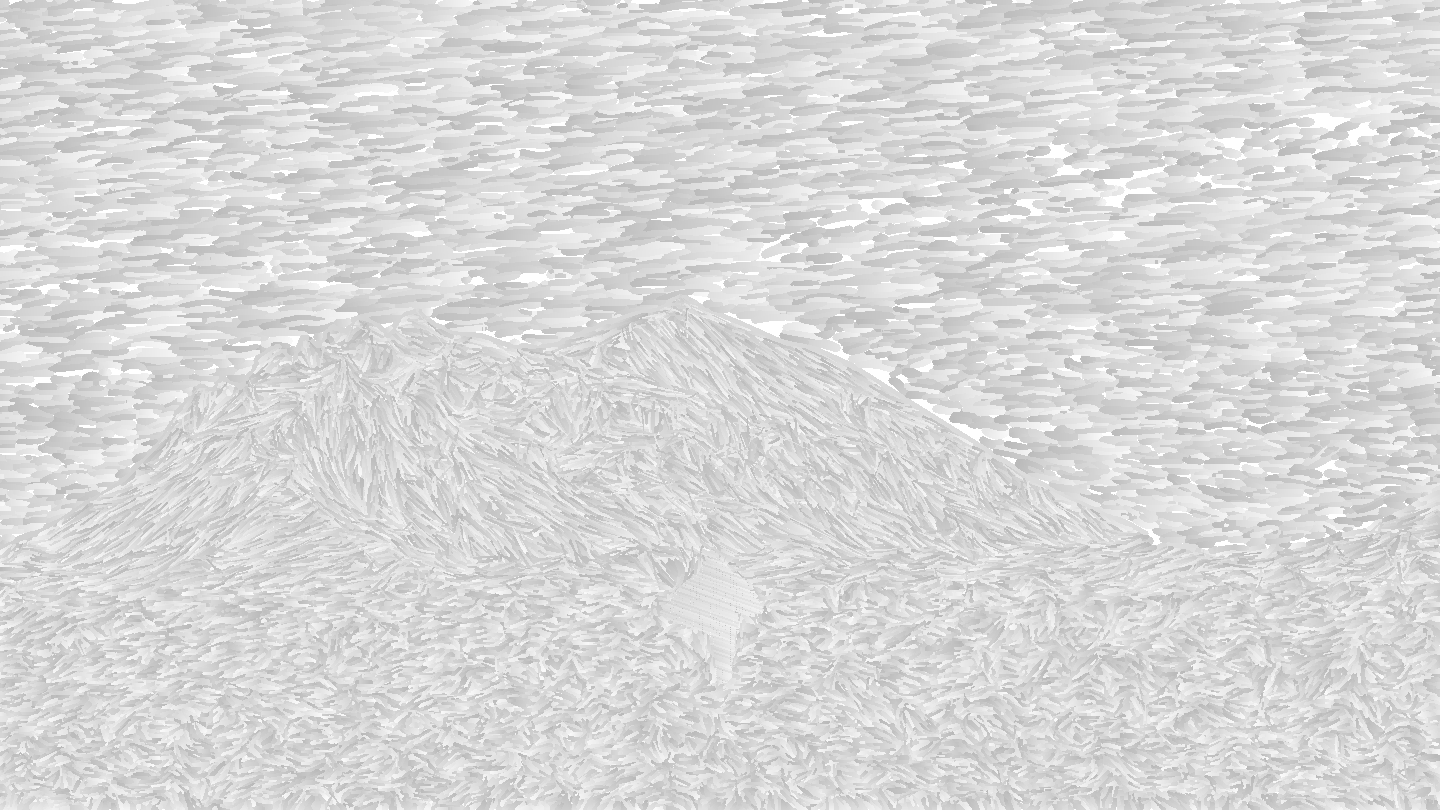
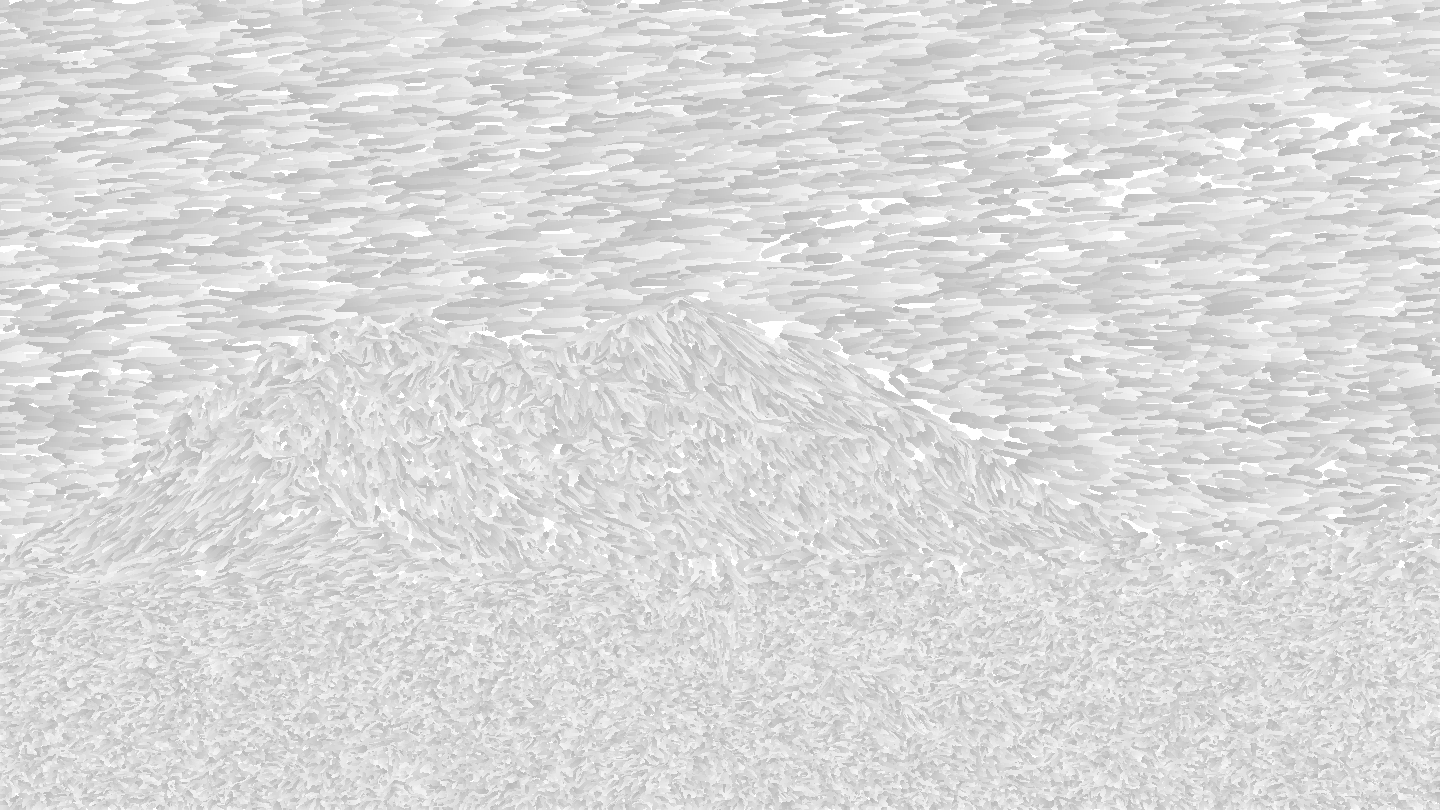
Unify painting with source-guided tapered brushwork

Changed region(s): [[0.0, 0.3704, 1.0, 1.0]]

diff --git a/index.html b/index.html
@@ -11,10 +11,10 @@
 </head>
 <body>
   <main id="field" class="field" aria-label="Interactive mountain landscape" aria-describedby="landscape-description">
-    <p id="landscape-description" class="sr-only">A climber crossing a rocky alpine slope beneath a mountain ridge in warm light. Drag the slider to build a colored drawing, from a rough sketch to layered lines of color.</p>
+    <p id="landscape-description" class="sr-only">A climber crossing a rocky alpine slope beneath a mountain ridge in warm light. Drag the slider to build a painting, from a rough sketch to layered colored brushstrokes.</p>
     <picture id="initial-photo" class="initial-photo">
       <source media="(orientation: portrait)" srcset="assets/mobile/finished.webp">
-      <img src="assets/desktop/finished.webp" alt="A colored line drawing of a climber crossing a rocky alpine slope beneath a mountain ridge in warm light." fetchpriority="high">
+      <img src="assets/desktop/finished.webp" alt="A brushstroke painting of a climber crossing a rocky alpine slope beneath a mountain ridge in warm light." fetchpriority="high">
     </picture>
     <img id="managed-photo" class="managed-photo" alt="" aria-hidden="true">
     <canvas id="landscape" aria-hidden="true"></canvas>

diff --git a/scripts/prepare-strokes.py b/scripts/prepare-strokes.py
@@ -1,5 +1,5 @@
 #!/usr/bin/env python3
-"""Author deterministic colored engraving atlases and lengthwise reveal maps.
+"""Author deterministic colored brushstroke atlases and lengthwise reveal maps.
 
 Every visible pixel is coverage from a drawn path, never a photograph overlay.
 Photographs guide selected contour paths and the brush palette. timeN.png is an
@@ -12,7 +12,6 @@ import json
 import numpy as np
 from PIL import Image, ImageDraw
 from scipy.ndimage import gaussian_filter, sobel, distance_transform_edt, map_coordinates
-from scipy.interpolate import PchipInterpolator
 
 ROOT=Path(__file__).resolve().parents[1]
 spec=importlib.util.spec_from_file_location('geometry',ROOT/'scripts/prepare-assets.py')
@@ -79,12 +78,12 @@ class Plate:
 def make(name):
     g=geo.GEOMETRY[name]
     size=(1440,810) if name=='desktop' else (900,1200)
-    w,h=size; rng=np.random.default_rng(7426)
+    w,h=size
     photo=Image.open(ROOT/f'assets/{name}/photo.webp').convert('RGB').resize(size,Image.Resampling.LANCZOS)
     source=np.asarray(photo,dtype=float)
     source=gaussian_filter(source,(2.2,2.2,0))
     lum=source@np.array([.2126,.7152,.0722])
-    # A slightly richer limited-value pencil palette makes light and shade read
+    # A slightly richer limited-value brush palette makes light and shade read
     # as colored marks while avoiding the dense black of an unmodified photo.
     source=np.clip(lum[:,:,None]+(source-lum[:,:,None])*1.2,0,255)
     source=np.clip(source*.96+PAPER*.04,0,255)
@@ -213,75 +212,113 @@ def make(name):
     for i,line in enumerate(person_details[name]):
         plates[0].path(subdivide(points(line)),.8,INK,.38+i*.019,.07,.66)
     print(name,'structural paths',counts,flush=True)
-    # Sky is a field of long horizontal colored pencil strokes, clipped to the
-    # real skyline. Cloud and sunset color is sampled along each moving stroke.
-    sky_rows=np.cumsum(rng.uniform(4.1,4.6,int(h*.68/4.1)+10))-18
-    for y in sky_rows:
-        x=-rng.uniform(0,120)
-        while x<w:
-            length=rng.uniform(320,900); xx=np.linspace(max(-2,x),min(w+2,x+length),max(2,int(length/5)))
-            yy=y+np.sin(xx/w*2.8+y/h*1.4)*13
-            valid=yy<skyline[np.clip(xx.astype(int),0,w-1)]-1
-            p=np.column_stack((xx[valid],yy[valid]))
-            if len(p)>1:
-                start=.12+.20*(y/h)+rng.uniform(0,.13)
-                plates[1].path(p,rng.uniform(3.8,4.2),sample(p),start,rng.uniform(.11,.18),.98)
-            x+=length+rng.uniform(.1,.7)
-    # Underlying terrain ribbons interpolate the authored ridge contours.
-    # Each ribbon is broken into long independent pencil gestures.
-    for band,(upper,lower) in enumerate(zip(bounds,bounds[1:])):
-        height=np.median(np.maximum(lower-upper,0));n=max(4,int(height/3.6))
-        for j in range(n+1):
-            t=(j+.2)/(n+1);line=upper*(1-t)+lower*t
-            line+=np.sin(xs*31+j*.7)*.65*np.sin(t*np.pi)
-            x=-rng.uniform(0,100)
-            while x<w:
-                length=rng.uniform(65,165) if band<3 else rng.uniform(28,85)
-                idx=np.arange(max(0,int(x)),min(w,int(x+length)),3)
-                valid=(lower[idx]-upper[idx]>0)&(line[idx]<h)&(line[idx]>0)
-                idx=idx[valid];p=np.column_stack((idx,line[idx]))
-                if len(p)>1:
-                    col=sample(p)
-                    col=col*.35+np.mean(col,axis=0)*.65
-                    plates[1].path(p,2.8 if band<3 else 3.1,col,.17+band*.025+rng.uniform(0,.17),rng.uniform(.10,.16),1)
-                x+=length+rng.uniform(1.5,4)
-    # Fine strokes trace local tonal orientation. Long mountainside marks use
-    # image structure; foreground strokes shorten naturally into rock facets.
+    # Keep the approved distant-land orientation field independent of the
+    # closer, finer photo structure used for the new terrain brushes.
     tone=gaussian_filter(lum,2.7)
     gx=sobel(tone,axis=1);gy=sobel(tone,axis=0)
     a=gaussian_filter(gx*gx,4);b=gaussian_filter(gx*gy,4);c=gaussian_filter(gy*gy,4)
     theta=.5*np.arctan2(2*b,a-c)+np.pi/2
-    for yy in np.arange(h*.33,h,5.5):
-        for xx in np.arange(0,w,7):
-            x=xx+rng.uniform(-2,2);y=yy+rng.uniform(-2,2)
-            if y<skyline[int(np.clip(x,0,w-1))]+2:continue
-            ix=int(np.clip(x,0,w-1));iy=int(np.clip(y,0,h-1))
-            angle=theta[iy,ix]
-            length=rng.uniform(12,33) if y<h*.72 else rng.uniform(7,19)
-            p=[]
-            for t in np.linspace(-.5,.5,7):
-                px=x+np.cos(angle)*length*t;py=y+np.sin(angle)*length*t
-                if 0<=px<w and 0<=py<h and py>skyline[int(px)]+1:p.append((px,py))
+    # The source, rather than interpolated authored ridges, determines every
+    # colored landform. Preserve small crags, snow edges and the human figure.
+    terrain_source=gaussian_filter(np.asarray(photo,dtype=float),(.65,.65,0))
+    terrain_lum=terrain_source@np.array([.2126,.7152,.0722])
+    terrain_source=np.clip(terrain_lum[:,:,None]+(terrain_source-terrain_lum[:,:,None])*1.2,0,255)
+    terrain_source=np.clip(terrain_source*.96+PAPER*.04,0,255)
+    land_tone=gaussian_filter(terrain_lum,1.05)
+    tx=sobel(land_tone,axis=1)/8;ty=sobel(land_tone,axis=0)/8
+    ta=gaussian_filter(tx*tx,1.8);tb=gaussian_filter(tx*ty,1.8);tc=gaussian_filter(ty*ty,1.8)
+    land_theta=.5*np.arctan2(2*tb,ta-tc)+np.pi/2
+    directions=np.dstack((np.cos(land_theta),np.sin(land_theta)))
+    land_rng=np.random.default_rng(32691)
+    def terrain_sample(p):
+        q=np.asarray(p);ix=np.clip(q[:,0].astype(int),0,w-1);iy=np.clip(q[:,1].astype(int),0,h-1)
+        return terrain_source[iy,ix]
+    def land_path(x,y,length):
+        ix=int(x);iy=int(y);origin=terrain_source[iy,ix]
+        # Integrate in both directions, choosing the same sign of the tensor
+        # tangent at every step. Curvature follows the actual fissure/facet.
+        branches=[];step=.9 if np.hypot(tx[iy,ix],ty[iy,ix])>8 else 2.1
+        for sign in [-1,1]:
+            p=np.array([x,y]);direction=directions[iy,ix]*sign;branch=[]
+            for _ in range(max(2,int(length/2/step))):
+                px=int(p[0]);py=int(p[1]);candidate=directions[py,px].copy()
+                if candidate@direction<0:candidate=-candidate
+                if candidate@direction<.72:break
+                direction=direction*.35+candidate*.65;direction/=np.linalg.norm(direction)
+                q=p+direction*step;qx=int(q[0]);qy=int(q[1])
+                if qx<0 or qx>=w or qy<0 or qy>=h or qy<skyline[qx]-1:break
+                # Stop before crossing a snow, cliff, silhouette or light/shade
+                # boundary, even when the local orientation remains similar.
+                color=terrain_source[qy,qx]
+                if np.linalg.norm(color-origin)>30 or np.linalg.norm(color-terrain_source[py,px])>18:break
+                branch.append(q.copy());p=q
+            branches.append(branch)
+        result=branches[0][::-1]+[np.array([x,y])]+branches[1]
+        if len(result)<2:
+            # A tiny tapered dab preserves source color where a sharp facial,
+            # snow or cliff edge cannot support a longer curved gesture.
+            delta=directions[iy,ix]*.65
+            return np.array([[x,y]-delta,[x,y]+delta])
+        return np.asarray(result)
+    # Overlapping body strokes share the tapered sky brush language. Seed
+    # positions are staggered and jittered, so no rows or crosshatch survive.
+    for pass_index in range(2):
+        spacing=2.7
+        for row,y0 in enumerate(np.arange(np.min(skyline)-2,h+3,spacing)):
+            for x0 in np.arange(-3+(row%2)*spacing*.5,w+3,spacing):
+                x=x0+land_rng.uniform(-spacing*.45,spacing*.45)
+                y=y0+land_rng.uniform(-spacing*.45,spacing*.45)
+                ix=int(x);iy=int(y)
+                if ix<0 or ix>=w or iy<0 or iy>=h or y<skyline[ix]-1:continue
+                foreground=y>h*(.72 if name=='desktop' else .66)
+                figure=(bx0*w<x<bx1*w and by0*h<y<by1*h and terrain_lum[iy,ix]<70)
+                target_spacing=(4 if foreground else 6.2) if pass_index else (2.7 if foreground else 6.7)
+                if land_rng.random()>(spacing/target_spacing)**2:continue
+                if figure:
+                    length=land_rng.uniform(8,18);width=land_rng.uniform(3,4.5)
+                elif foreground:
+                    length=land_rng.uniform(9,24);width=land_rng.uniform(3.8,6.5)
+                else:
+                    length=land_rng.uniform(19,49);width=land_rng.uniform(4.5,7.5)
+                if pass_index:
+                    length*=.65;width*=.48
+                # A strong gradient is transverse to these contour-following
+                # paths. Narrow the body there to protect snow and silhouettes.
+                strength=np.hypot(tx[iy,ix],ty[iy,ix])
+                width*=np.clip(7/(strength+1),.48,1)
+                p=land_path(x,y,length)
+                if len(p)<2:continue
+                col=terrain_sample(p);col=col*.60+col.mean(axis=0)*.40
+                col=np.clip(col+land_rng.uniform(-5,5),0,255)
+                start=land_rng.uniform(.19,.38) if pass_index==0 else land_rng.uniform(.45,.80)
+                span=land_rng.uniform(.10,.16)
+                plates[pass_index+1].path(p,width,col,start,span,.98,taper=True)
+    # Compact body gestures close excessive gaps where strong local contrasts
+    # shorten the paths, without filling them with a smooth photographic layer.
+    for y0 in np.arange(np.min(skyline),h,2.8):
+        for x0 in np.arange(0,w,2.8):
+            x=x0+land_rng.uniform(-1,1);y=y0+land_rng.uniform(-1,1)
+            ix=int(x);iy=int(y)
+            if ix<0 or ix>=w or iy<0 or iy>=h or y<skyline[ix]-1:continue
+            if plates[1].alpha[iy,ix]>.40 or land_rng.random()>.82:continue
+            p=land_path(x,y,land_rng.uniform(5,10))
             if len(p)<2:continue
-            p=np.asarray(p);col=np.mean(sample(p),axis=0)
-            plates[2].path(p,rng.uniform(1.25,2.3),col,rng.uniform(.45,.80),rng.uniform(.09,.16),.92)
-    # Refined colored ridges add crisp geography after the broad color arrives.
-    for i,spur in enumerate([g['skyline']]+g['spurs']):
-        p=subdivide(points(spur),3);col=sample(p)*.86
-        plates[2].path(p,1.1,col,.63+i*.014,.12,.88)
-    # The climber is drawn in short colored cross hatching within the authored
-    # silhouette so the human scale remains evident even in the small crop.
-    person=Image.new('L',size);ImageDraw.Draw(person).polygon([tuple(x) for x in points(g['person'])],fill=255)
-    mask=np.asarray(person)>0
-    bx0,by0,bx1,by1=g['subject']
-    for y in np.arange(by0*h,by1*h,2):
-        xx=np.arange(bx0*w,bx1*w,1);yy=y+(xx-(bx0+bx1)*w/2)*.35
-        valid=mask[np.clip(yy.astype(int),0,h-1),np.clip(xx.astype(int),0,w-1)]
-        p=np.column_stack((xx[valid],yy[valid]))
-        if len(p)>1:plates[2].path(p,1.7,sample(p)*.87,.65+rng.uniform(0,.12),.12,1)
-    # The original broad pass remains only at the near-ridge boundary. Replace
-    # its background with independent brush gestures; a separate random stream
-    # preserves every authored foreground/midground mark and its reveal timing.
+            col=terrain_sample(p)
+            width=land_rng.uniform(2.6,4.2)*np.clip(9/(np.hypot(tx[iy,ix],ty[iy,ix])+1),.65,1)
+            plates[1].path(p,width,col,
+                           land_rng.uniform(.21,.39),.12,.98,taper=True)
+    # Source-derived edge gestures recover the lit sawtooth wall, cliff teeth,
+    # snow margins and figure silhouette. No synthetic colored ridge outline.
+    for _,region,p,_ in sorted(paths,key=lambda q:-q[0]):
+        if region=='cloud':continue
+        p=p[::2]
+        if len(p)<3:continue
+        for start in range(0,len(p)-2,15):
+            stroke=p[start:start+17]
+            col=terrain_sample(stroke)
+            plates[2].path(stroke,land_rng.uniform(1.2,2.2),col,
+                           land_rng.uniform(.57,.79),.12,.91,taper=True)
+    # Preserve the approved background brush family in its own random stream.
     background=[Plate(w,h),Plate(w,h)]
     brush_rng=np.random.default_rng(19042)
     far_horizon={
@@ -337,8 +374,8 @@ def make(name):
                         span=brush_rng.uniform(.10,.17) if pass_index==0 else brush_rng.uniform(.09,.16)
                         background[pass_index].path(stroke,width,col,start,span,.98,taper=True)
                 x+=length*brush_rng.uniform(.80,1.07)+brush_rng.uniform(2,8)
-    # Pixel-level replacement leaves the near mountains and foreground exactly
-    # as authored, including their antialiased edges and six-sampler layout.
+    # The two colored plates share one boundary and the same tapered brush
+    # family, while retaining the three-plate/six-sampler runtime layout.
     background_mask=np.arange(h)[:,None]<skyline[None,:]-3
     for plate,replacement in zip(plates[1:],background):
         plate.rgb[background_mask]=replacement.rgb[background_mask]

diff --git a/docs/stroke-revision.md b/docs/stroke-revision.md
@@ -12,7 +12,7 @@ At stroke overlaps the visible layer records the topmost stroke's timing; lower 
 
 ## Asset authoring
 
-`prepare-strokes.py` uses the approved source images and authored ridge geometry to generate paths and sample their colors. Sky strokes are gently curved, staggered, and long enough to see their tips travel. Mountains follow ridge/contour directions; short colored strokes describe rock facets and the climber. Paper gaps remain visible at full progress. The subject may lose photographic detail by design.
+`prepare-strokes.py` uses the approved source images to guide colored brush paths and sample their colors; authored ridge geometry anchors the early pencil sketch and composition regions. Sky strokes are gently curved and staggered. Mountain strokes follow local photo-derived directions, while shorter gestures describe rock facets and the climber. Narrower strokes at strong boundaries and compact colored dabs preserve detail without turning sharp edges into large paper gaps. Paper seams remain visible at full progress. The subject may lose photographic detail by design.
 
 The desktop stroke plates are 1440×810 and the portrait plates 900×1200. RGB and timing are extended into a small transparent gutter to avoid dark or premature edges during texture filtering. Timing maps are PNG data without gamma/profile conversion; colored plates are lossless RGBA WebP. `finished.webp` is an opaque, lossless composite of the decoded plates and supplies the no-JS/loading/error fallback.
 
@@ -39,3 +39,9 @@ The sketch plate now carries structural arrival times through approximately 60 p
 The full-screen navigation gradient previously switched from light to dark at 82 percent. It is removed, along with the progress-dependent text-color class. Navigation text instead sits on small, constant ivory surfaces, so the drawing's own colored marks determine light and shade throughout the slider range. Browser captures include 81, 82, and 83 percent to inspect continuity around the former threshold.
 
 The sky, clouds, and distant terrain receive their own curved colored brush gestures and finer marks. A separate distant horizon distinguishes the right-hand background mountains from open sky. Shorter, tapered paths, varied spacing, and exposed paper give these regions visible texture. Background generation uses a separate random stream and replaces only the area above the nearer mountain silhouette, preserving the existing foreground and midground marks. The three-plate rendering contract and sketch/color progression remain unchanged.
+
+## A consistent brush style guided by the source image
+
+The next revision extends the approved background brush style through the mountains, foreground rocks, and climber. All colored marks share a tapered profile; their direction, length, and curvature vary with the forms in the photograph. Replace the broad contour bands and fine straight hatching with paths guided by the source's local structure and edges. Shorter marks describe rock facets and the figure; longer gestures describe mountain slopes. Strong boundaries should separate lit cliffs, shadows, snow, and the climber rather than blending them together.
+
+Visual acceptance compares both finished compositions with their source photographs: the serrated skyline, distinct rear peak and nearer crag wall, steep gullies and illuminated edges, individual foreground rocks, and the climber's hood, arms, legs, and poles. The sky's approved brush treatment, warm/cool light, staged pencil underdrawing, and late pigment buildup remain. The existing texture layout and drawn fallback contract still apply.

diff --git a/docs/review-notes.md b/docs/review-notes.md
@@ -66,3 +66,11 @@ Removed the full-screen navigation gradient and its abrupt 82-percent switch. Co
 Independent Astra high accessibility, rendering, and visual reviewers approved the change. Reviews included desktop/mobile compositions, 320px, short and ultrawide layouts, and actual browser captures at 81, 82, and 83 percent. Added spacing separates the ultrawide tuner from Contact. Asset comparison confirmed byte-identical sketch plates/timing, unchanged finished pixels at and below the near skyline in both compositions, unchanged color plates/timing below the four-pixel edge gutter, and no untimed covered pixels. The lossless endpoint remains an exact offline composite; the real GPU/fallback comparison also passes.
 
 Final validation: 10 Node tests and 17 local Chrome browser tests pass. An earlier screenshot run entered fallback once; its targeted rerun and the final full run passed. Updated previews show the unshaded artwork and new background texture. Texture count, dimensions, resource bounds, interaction, and fallback contracts are unchanged. The browser/device coverage limits above still apply.
+
+## Source-guided brushwork throughout the painting
+
+Extended the approved background brush style through all colored terrain and figure marks. Removed interpolated contour ribbons, straight fine hatching, synthetic colored ridge outlines, and figure crosshatching. New curved paths follow a sharper photo-derived orientation field, stop at strong tone/color boundaries, and narrow near sharp edges. Short tapered dabs preserve the source color where a boundary cannot support a long gesture. Stroke size and coverage vary with mountain slopes, rock facets, and the figure.
+
+Independent Astra high art and rendering reviewers approved both final compositions. Source comparisons confirmed distinct rear peak and jagged nearer cliff walls, steep fissures, golden light, separate rock facets and dark crevices, and a readable climber with poles. Iterations corrected excessive paper gaps around high-contrast details and the figure. Artifact audits verified byte-identical sketch assets, unchanged visible background away from the boundary gutter, valid timing throughout, unchanged dimensions, and an exact offline endpoint composite. The six-sampler renderer and progression controls are unchanged.
+
+Validation: 10 Node tests and 17 local Chrome browser tests pass, including actual GPU/fallback agreement and sketch/pigment progression. Refreshed desktop/mobile previews show the complete brush treatment. Drawing assets total about 9.3 MiB across both variants; decoded/GPU memory bounds are unchanged. The previously stated browser and physical-device testing limits still apply.

diff --git a/README.md b/README.md
@@ -1,6 +1,6 @@
 # Peter Gramaglia — Resolve
 
-An interactive field study: drag the landscape or use the tuning scale to draw it, from a loose sketch to a refined colored engraving. The homepage is a buildless static site hosted on GitHub Pages. Existing résumé URLs are retained.
+An interactive field study: drag the landscape or use the tuning scale to draw it, from a loose sketch to a painting built from tapered colored brushstrokes. The homepage is a buildless static site hosted on GitHub Pages. Existing résumé URLs are retained.
 
 ## Preview
 
